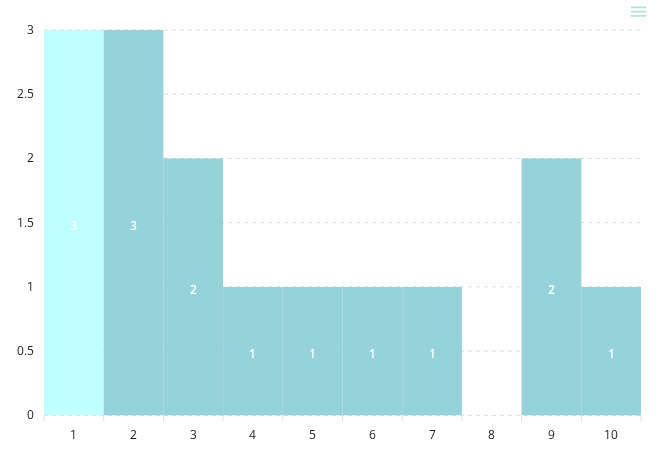
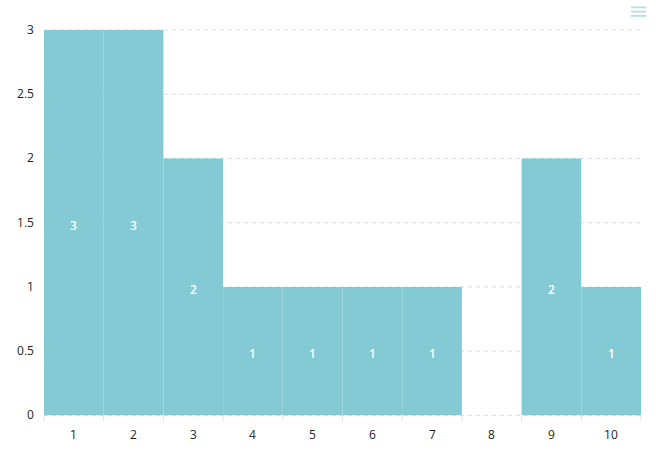
Bar Colors are not defined in a Dashboard's theme object (#766)
* resolve #756 Bar Colors are not defined in a Dashboard's theme object

* update rating-number-histogram test

---------

Pull request: Bar Colors are not defined in a Dashboard's theme object

Changed region(s): [[0.0305, 0.0602, 0.1829, 0.9032], [0.9146, 0.9032, 0.9451, 0.9634]]

diff --git a/src/visualizerBase.ts b/src/visualizerBase.ts
@@ -933,7 +933,7 @@ export class VisualizerBase implements IDataInfo {
   }
 
   getRandomColor() {
-    const colors = VisualizerBase.getColors();
+    const colors = this.getColors();
     return colors[Math.floor(Math.random() * colors.length)];
   }
 
@@ -978,44 +978,8 @@ export class VisualizerBase implements IDataInfo {
     this.onThemeChanged();
   }
 
-  static customColors: string[] = [];
-  private static colors = [
-    "#84CAD4",
-    "#3a99fb",
-    "#ff6771",
-    "#1db496",
-    "#ffc152",
-    "#aba1ff",
-    "#7d8ca5",
-    "#4fc46c",
-    "#e87bcb",
-    "#4e6198"
-    // "#86e1fb",
-    // "#3999fb",
-    // "#ff6771",
-    // "#1eb496",
-    // "#ffc152",
-    // "#aba1ff",
-    // "#7d8da5",
-    // "#4ec46c",
-    // "#cf37a6",
-    // "#4e6198",
-  ];
-
-  static getColors(count = 10) {
-    const colors =
-      Array.isArray(VisualizerBase.customColors) &&
-        VisualizerBase.customColors.length > 0
-        ? VisualizerBase.customColors
-        : VisualizerBase.colors;
-
-    let manyColors: any = [];
-
-    for(let index = 0; index < count; index++) {
-      manyColors = manyColors.concat(colors);
-    }
-
-    return manyColors;
+  getColors() {
+    return this.theme.chartColors;
   }
 
   /**
@@ -1070,7 +1034,7 @@ export class VisualizerBase implements IDataInfo {
       // TODO: remove unused or add missing values
       values: calculatedValues.values || this.getValues(),
       labels: this.getLabels(),
-      colors: VisualizerBase.getColors(),
+      colors: this.getColors(),
       texts: calculatedValues.data,
       seriesLabels: calculatedValues.series || this.getSeriesLabels()
     };

diff --git a/tests/vizualizerBase.test.ts b/tests/vizualizerBase.test.ts
@@ -1,20 +1,6 @@
-import { VisualizerBase, IDataInfo } from "../src/visualizerBase";
 import { QuestionDropdownModel, SurveyModel } from "survey-core";
-
-test("custom colors", () => {
-  expect(VisualizerBase.getColors(1)).toEqual(VisualizerBase["colors"]);
-
-  VisualizerBase.customColors = ["red", "green", "blue"];
-
-  expect(VisualizerBase.getColors(2)).toEqual([
-    "red",
-    "green",
-    "blue",
-    "red",
-    "green",
-    "blue",
-  ]);
-});
+import { VisualizerBase, IDataInfo } from "../src/visualizerBase";
+import { DashboardTheme } from "../src/theme";
 
 test("series options", () => {
   const seriesValues = ["1", "2"];
@@ -179,3 +165,25 @@ test("footer should render or hide the footer content depending on isFooterColla
   expect(contentDivExpanded.style.display).toBe("block");
 });
 
+test("default theme provides chart colors", () => {
+  const visualizer = new VisualizerBase(null, null);
+  const colors = visualizer.getColors();
+  expect(colors.length).toBeGreaterThan(0);
+  expect(colors[0]).toBe("#84CAD4");
+});
+
+test("theme chart colors override default colors", () => {
+  const customTheme = {
+    cssVariables: {
+      "--sjs2-color-data-chart-bg-color-1": "#FF0000",
+      "--sjs2-color-data-chart-bg-color-2": "#00FF00",
+      "--sjs2-color-data-chart-bg-color-3": "#0000FF",
+    }
+  };
+  const theme = new DashboardTheme(customTheme);
+  expect(theme.chartColors).toEqual(["#FF0000", "#00FF00", "#0000FF"]);
+
+  const visualizer = new VisualizerBase(null, null);
+  visualizer.theme = theme;
+  expect(visualizer.getColors()).toEqual(["#FF0000", "#00FF00", "#0000FF"]);
+});

diff --git a/examples/histogram.js b/examples/histogram.js
@@ -153,24 +153,6 @@ var data = [
 data.forEach(function(item) { delete item.date; });
 data = data.concat(salesData);
 
-// SurveyAnalyticsPlotly.DashboardTheme.backgroundColor = "gray";
-// SurveyAnalyticsPlotly.DashboardTheme["--dsb-item-background-color"] = "gray";
-// SurveyAnalyticsPlotly.DashboardTheme["--sa-dropdown-bg"] = "gray";
-
-// SurveyAnalyticsPlotly.VisualizerBase.customColors = [
-//   "#f3cec9",
-//   "#e7a4b6",
-//   "#cd7eaf",
-//   "#a262a9",
-//   "#6f4d96",
-//   "#3d3b72",
-//   "#182844",
-//   "#6f4d96",
-//   "#3d3b72",
-//   "#182844",
-// ];
-
-
 var visPanel = new SurveyAnalyticsPlotly.VisualizationPanel(
   // [survey.getQuestionByName("date")],
   survey.getAllQuestions(),

diff --git a/tests/helpers.ts b/tests/helpers.ts
@@ -1,0 +1,14 @@
+export function getDefaultColors() {
+  return [
+    "#84CAD4",
+    "#3A99FB",
+    "#FF6771",
+    "#1DB496",
+    "#FFC152",
+    "#ABA1FF",
+    "#7D8CA5",
+    "#4FC46C",
+    "#E87BCB",
+    "#4E6198"
+  ];
+}

diff --git a/src/theme.ts b/src/theme.ts
@@ -25,6 +25,8 @@ export class DashboardTheme implements IDashboardTheme {
       value = this._computedValuesCache[propertyName];
     } else if(!!this._cssStyleDeclaration) {
       value = this._cssStyleDeclaration.getPropertyValue(propertyName);
+    } else {
+      value = this.cssVariables[propertyName];
     }
 
     if(checkIsNumber) {
@@ -217,6 +219,17 @@ export class DashboardTheme implements IDashboardTheme {
       size: this.getCssVariableValue("--sjs2-typography-font-size-small", true),
       weight: 400
     };
+  }
+
+  public get chartColors(): string[] {
+    const colors: string[] = [];
+    for(let i = 1; i <= 10; i++) {
+      const color = this.getCssVariableValue(`--sjs2-color-data-chart-bg-color-${i}`);
+      if(color) {
+        colors.push(color);
+      }
+    }
+    return colors;
   }
 
   public get radarLabelFont(): FontSettings {

diff --git a/tests/selectBase.test.ts b/tests/selectBase.test.ts
@@ -3,6 +3,7 @@ import { SelectBase, hideEmptyAnswersInData } from "../src/selectBase";
 import { VisualizationManager } from "../src/visualizationManager";
 import { VisualizerBase } from "../src/visualizerBase";
 import { DataProvider } from "../src/dataProvider";
+import { getDefaultColors } from "./helpers";
 
 let selectBase: SelectBase;
 let choices = [
@@ -162,7 +163,7 @@ test("check that getSelectedItemByText take into account other item", () => {
 });
 
 test("getAnswersData method", async () => {
-  const colors = VisualizerBase.getColors();
+  const colors = getDefaultColors();
   expect(await selectBase.getAnswersData()).toEqual({
     "colors": colors,
     "datasets": [[2, 1, 0, 1, 0, 0].reverse()],
@@ -173,7 +174,7 @@ test("getAnswersData method", async () => {
 });
 
 test("hide empty items", async () => {
-  const colors = VisualizerBase.getColors();
+  const colors = getDefaultColors();
   expect(selectBase.hideEmptyAnswers).toBe(false);
   expect(await selectBase.getAnswersData()).toEqual({
     "colors": colors, "datasets": [[2, 1, 0, 1, 0, 0].reverse()],
@@ -183,7 +184,7 @@ test("hide empty items", async () => {
   },);
   selectBase.hideEmptyAnswers = true;
   expect(await selectBase.getAnswersData()).toEqual({
-    "colors": ["#ff6771", "#ffc152", "#aba1ff"],
+    "colors": ["#FF6771", "#FFC152", "#ABA1FF"],
     "datasets": [[2, 1, 1].reverse()],
     "values": ["sister", "mother", "father"],
     "labels": ["father_text", "mother_text", "sister_text"].reverse(),
@@ -246,9 +247,9 @@ test("onDataChanged calls updateEmptyAnswersBtn", () => {
 
 test("change answers order", async () => {
   selectBase.hideEmptyAnswers = true;
-  const color1 = "#ff6771";
-  const color2 = "#ffc152";
-  const color3 = "#aba1ff";
+  const color1 = "#FF6771";
+  const color2 = "#FFC152";
+  const color3 = "#ABA1FF";
   expect(selectBase.answersOrder).toBe("default");
   expect(await selectBase.getAnswersData()).toEqual({
     "colors": [color1, color2, color3],

diff --git a/examples/dashboard.js b/examples/dashboard.js
@@ -15,16 +15,6 @@ var survey = new Survey.SurveyModel(json);
 // xhr.onload = function() {
 //   var result = xhr.response ? JSON.parse(xhr.response) : [];
 
-//   // SurveyAnalyticsPlotly.SelectBasePlotly.types = ["pie", "scatter"];
-//   // SurveyAnalyticsPlotly.VisualizerBase.customColors = [
-//   //   "F85A40",
-//   //   "185A32",
-//   //   "BC1CEC",
-//   //   "DC4E75",
-//   //   "747F4B",
-//   //   "000000"
-//   // ];
-
 //   var visPanel = new SurveyAnalyticsPlotly.VisualizationPanel(
 //     survey.getAllQuestions(),
 //     data

diff --git a/examples/state_in_localstorage.js b/examples/state_in_localstorage.js
@@ -15,16 +15,6 @@ var survey = new Survey.SurveyModel(json);
 // xhr.onload = function() {
 //   var result = xhr.response ? JSON.parse(xhr.response) : [];
 
-//   // SurveyAnalyticsPlotly.SelectBasePlotly.types = ["pie", "scatter"];
-//   // SurveyAnalyticsPlotly.VisualizerBase.customColors = [
-//   //   "F85A40",
-//   //   "185A32",
-//   //   "BC1CEC",
-//   //   "DC4E75",
-//   //   "747F4B",
-//   //   "000000"
-//   // ];
-
 //   var visPanel = new SurveyAnalyticsPlotly.VisualizationPanel(
 //     survey.getAllQuestions(),
 //     data

diff --git a/examples/summary.js b/examples/summary.js
@@ -15,16 +15,6 @@ var survey = new Survey.SurveyModel(json);
 // xhr.onload = function() {
 //   var result = xhr.response ? JSON.parse(xhr.response) : [];
 
-//   // SurveyAnalyticsPlotly.SelectBasePlotly.types = ["pie", "scatter"];
-//   // SurveyAnalyticsPlotly.VisualizerBase.customColors = [
-//   //   "F85A40",
-//   //   "185A32",
-//   //   "BC1CEC",
-//   //   "DC4E75",
-//   //   "747F4B",
-//   //   "000000"
-//   // ];
-
 //   var visPanel = new SurveyAnalyticsPlotly.VisualizationPanel(
 //     survey.getAllQuestions(),
 //     data

diff --git a/tests/plotlyconfig.test.ts b/tests/plotlyconfig.test.ts
@@ -136,7 +136,7 @@ test("check bar config with non default label ordering", async () => {
   selectBase.answersOrder = "desc";
   const data = await selectBase.getAnswersData();
   var config = PlotlySetup.setupBar(selectBase, data);
-  var trueColors = ["#84CAD4", "#3a99fb", "#1db496", "#ff6771", "#ffc152", "#aba1ff"];
+  var trueColors = ["#84CAD4", "#3A99FB", "#1DB496", "#FF6771", "#FFC152", "#ABA1FF"];
   var trueY = [
     "daughter_text",
     "son_text",
@@ -157,7 +157,7 @@ test("check bar config with non default label ordering and enabled showPercentag
   selectBase.showPercentages = true;
   const data = await selectBase.getAnswersData();
   var config = PlotlySetup.setupBar(selectBase, data);
-  var trueColors = ["#84CAD4", "#3a99fb", "#1db496", "#ff6771", "#ffc152", "#aba1ff"];
+  var trueColors = ["#84CAD4", "#3A99FB", "#1DB496", "#FF6771", "#FFC152", "#ABA1FF"];
   var trueY = [
     "daughter_text",
     "son_text",
@@ -185,7 +185,7 @@ test("check bar config with non default label ordering and enabled showPercentag
     "son_text",
     "brother_text",
   ]);
-  expect(config.traces[0].marker.color).toEqual(["#aba1ff", "#ff6771", "#ffc152", "#84CAD4", "#3a99fb", "#1db496"]);
+  expect(config.traces[0].marker.color).toEqual(["#ABA1FF", "#FF6771", "#FFC152", "#84CAD4", "#3A99FB", "#1DB496"]);
   expect(config.traces[0].text).toEqual(truePercentages.reverse());
 
   selectBase.answersOrder = "default";

diff --git a/tests/matrix.test.ts b/tests/matrix.test.ts
@@ -177,7 +177,7 @@ test("hide empty answers", async () => {
   var matrix = new Matrix(question, data);
   matrix.hideEmptyAnswers = true;
   expect(await matrix.getAnswersData()).toEqual({
-    colors: ["#84CAD4", "#3a99fb"],
+    colors: ["#84CAD4", "#3A99FB"],
     datasets: [
       [2, 0],
       [0, 2],
@@ -205,7 +205,7 @@ test("hide empty answers", async () => {
   var matrix = new Matrix(question, data);
   matrix.hideEmptyAnswers = true;
   expect(await matrix.getAnswersData()).toEqual({
-    colors: ["#84CAD4", "#3a99fb"],
+    colors: ["#84CAD4", "#3A99FB"],
     datasets: [[1, 1]],
     labels: ["Monday", "Tuesday"],
     values: ["Monday", "Tuesday"],

diff --git a/src/histogram.ts b/src/histogram.ts
@@ -533,7 +533,7 @@ export class HistogramModel extends SelectBase {
 
   private async getGroupedDateAnswersData(): Promise<IAnswersData> {
     let datasets = ((await this.getCalculatedValues()).data) as number[][];
-    let colors = VisualizerBase.getColors();
+    let colors = this.getColors();
     let labels = this.getLabels();
     let seriesLabels = this.getSeriesLabels();
 